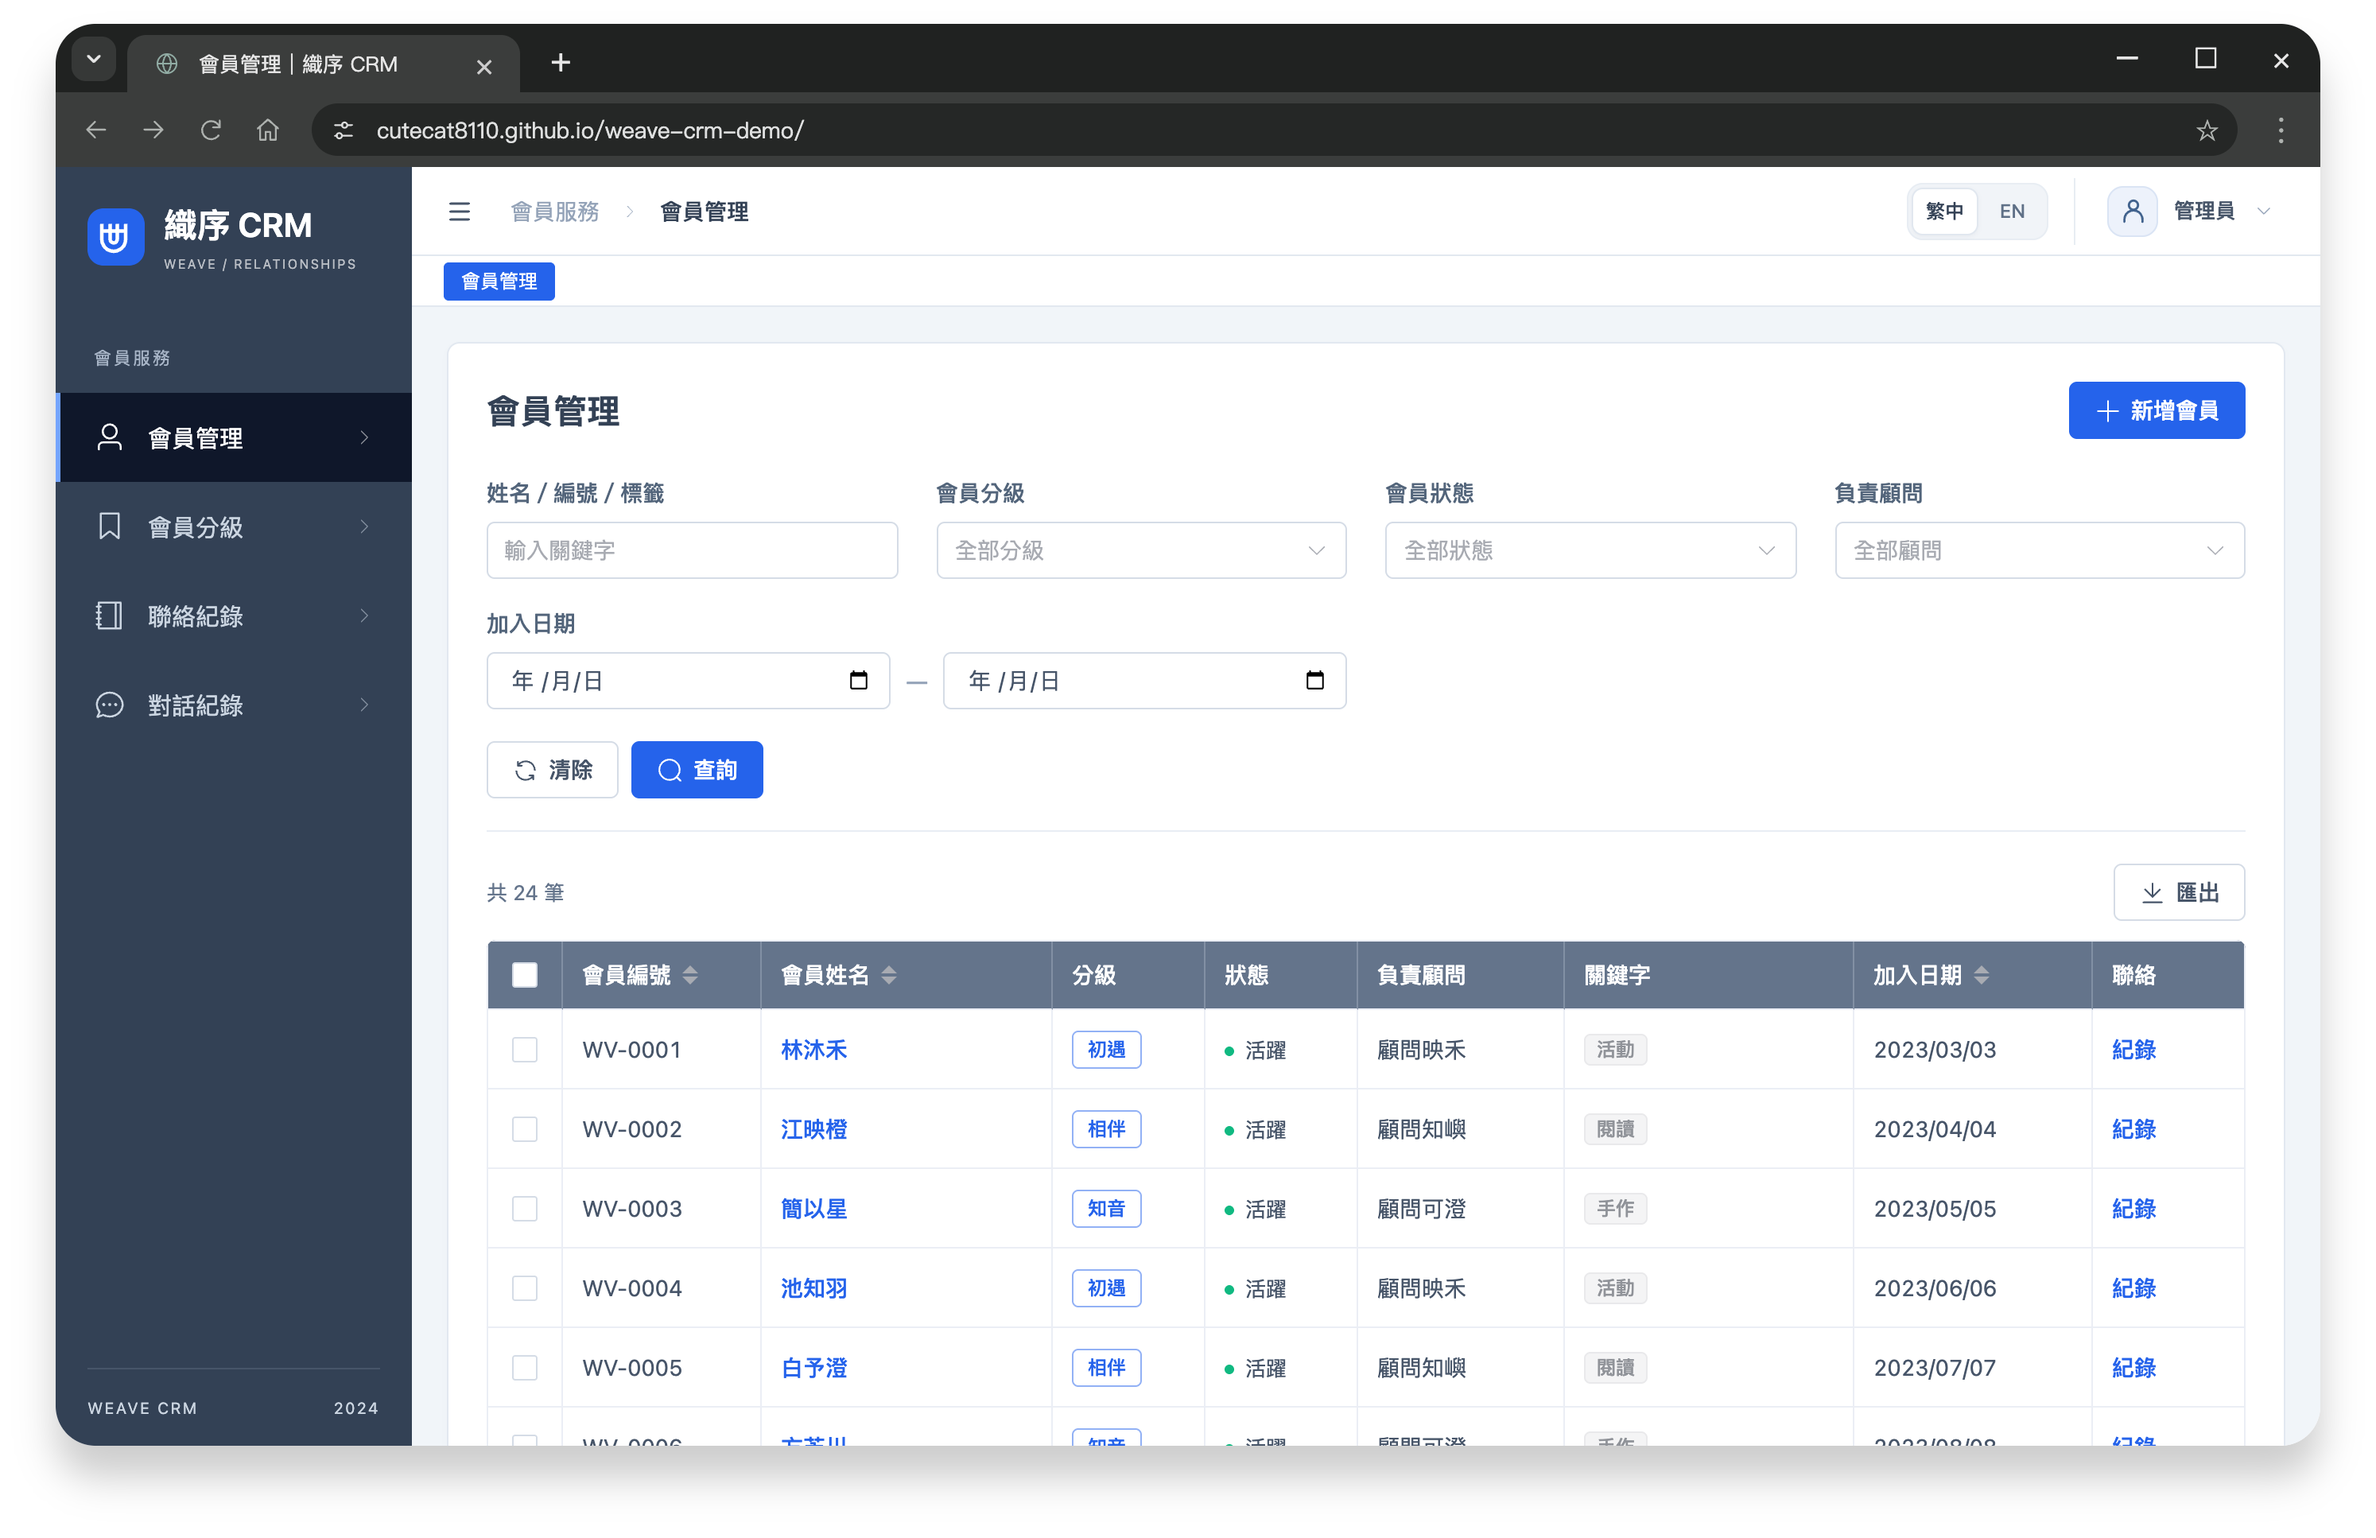
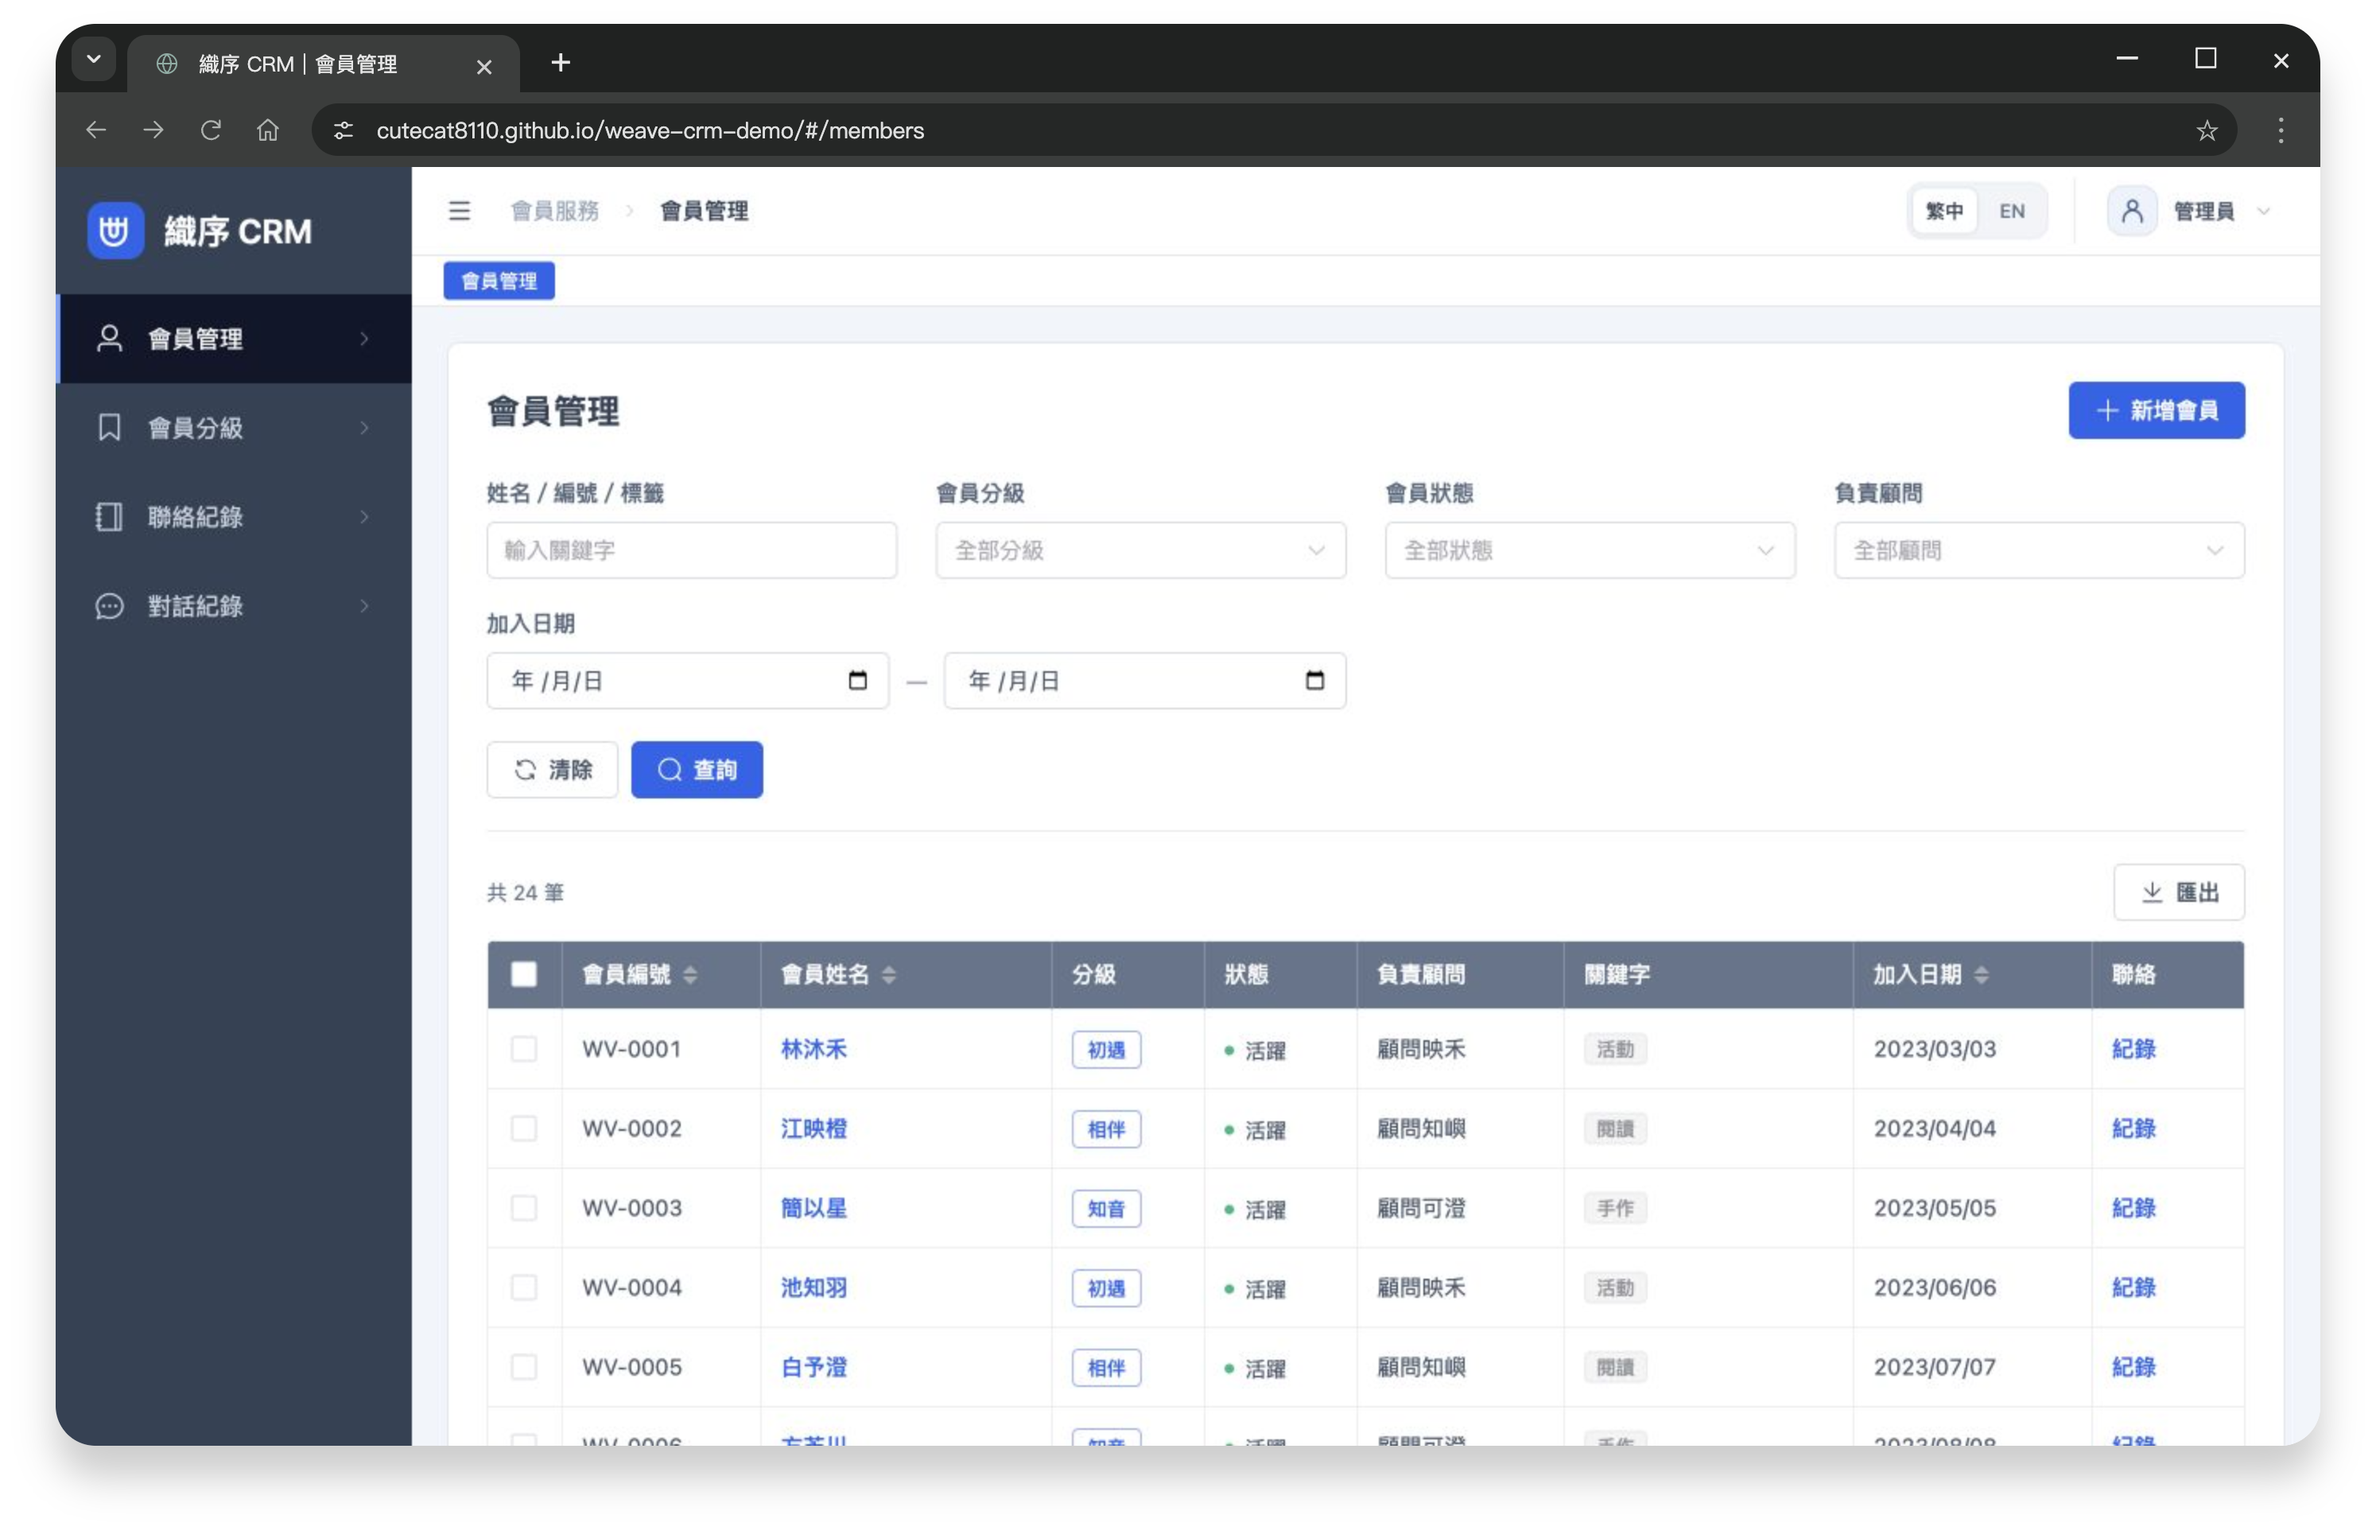
Refresh project overview and screenshots

diff --git a/README.md b/README.md
@@ -1,54 +1,44 @@
 # 織序 CRM｜會員管理與對話搜尋展示
 
-![Nuxt](https://img.shields.io/badge/Nuxt_4-00DC82?logo=nuxt&logoColor=fff) ![Vue](https://img.shields.io/badge/Vue_3-4FC08D?logo=vuedotjs&logoColor=fff) ![TypeScript](https://img.shields.io/badge/TypeScript-3178C6?logo=typescript&logoColor=fff) ![Element Plus](https://img.shields.io/badge/Element_Plus-409EFF) ![IndexedDB](https://img.shields.io/badge/IndexedDB-455A64)
+`Nuxt 4` · `Vue 3` · `TypeScript` · `Element Plus` · `IndexedDB`
 
-整合會員分級、聯絡歷程與多管道對話，支援關鍵字定位、圖片預覽及中英切換。
+整合會員分級、聯絡歷程與對話，支援搜尋定位、圖片預覽及中英切換。
 
-[**開啟 Demo →**](https://cutecat8110.github.io/weave-crm-demo/#/login)
+**[開啟 Demo](https://cutecat8110.github.io/weave-crm-demo/#/login)**
 
-![對話搜尋](images/conversations.png)
+![對話搜尋與圖片訊息](images/conversations.png)
 
-| 功能入口 | 可以體驗 |
+| 入口 | 代表操作 |
 | --- | --- |
-| [對話紀錄](https://cutecat8110.github.io/weave-crm-demo/#/conversations) | 訊息／客服／簡訊分類、命中高亮、逐筆定位、圖片放大 |
-| [會員管理](https://cutecat8110.github.io/weave-crm-demo/#/members) | 多條件查詢、編輯、福利資格與依角色區分資料範圍 |
-| [會員分級](https://cutecat8110.github.io/weave-crm-demo/#/tiers) | 福利設定、啟用／停用、會員關聯與刪除檢查 |
-| [聯絡紀錄](https://cutecat8110.github.io/weave-crm-demo/#/contacts) | 帶入會員、新增紀錄、安排追蹤及回看歷程 |
+| [會員管理](https://cutecat8110.github.io/weave-crm-demo/#/members) | 多條件查詢、編修、福利資格與顧問資料範圍 |
+| [會員分級](https://cutecat8110.github.io/weave-crm-demo/#/tiers) | 福利設定、啟停用及關聯檢查 |
+| [聯絡紀錄](https://cutecat8110.github.io/weave-crm-demo/#/contacts) | 新增紀錄、安排追蹤與回看歷程 |
+| [對話紀錄](https://cutecat8110.github.io/weave-crm-demo/#/conversations) | 分類、會員關聯、命中定位與圖片放大 |
 
-**建議體驗**
-
-1. 帶入管理員帳密，在對話紀錄開啟「林沐禾」，搜尋「活動報名」，切換命中並開啟圖片。
-2. 編輯「初遇」分級的福利，再查看會員的可用項目；暫停會員或停用分級，資格會同步改變。
-3. 切換右上角 **EN**，查看英文表單、驗證、日期及匯出。
-4. 登出後帶入顧問，對照負責會員的資料範圍。
-
-管理員可管理全部資料；顧問僅處理負責會員及相關紀錄；唯讀可查詢及匯出。
+**試用：** 帶入管理員帳密 → 開啟林沐禾對話 → 搜尋「活動報名」→ 切換命中與查看圖片。右上角可切換中英介面。
 
 <details>
 <summary>會員管理與聯絡歷程</summary>
 
-![會員管理](images/members.png)
-![聯絡歷程](images/contacts.png)
+![會員查詢與分級](images/members.png)
+![聯絡紀錄與追蹤狀態](images/contacts.png)
 
 </details>
 
 <details>
 <summary>實作重點</summary>
 
-- 共用列表、編輯器與語系字典，統一查詢、驗證、分頁與操作回饋。
-- 搜尋保留前後對話；圖片按需載入，預覽支援縮放、鍵盤及失敗重試。
-- 會員範圍統一套用於列表、關聯選取、歷程及 CSV；福利依會員與分級狀態判定。
-- IndexedDB 交易、版本檢查與資料升版，保留修改並避免跨分頁覆蓋；儲存失敗保留草稿。
+共用查詢、表單與語系字典；對話搜尋保留前後文。IndexedDB 交易與版本檢查避免跨分頁覆蓋，儲存失敗保留草稿。
 
 </details>
 
 <details>
-<summary>資料與使用範圍</summary>
+<summary>角色與使用說明</summary>
 
-使用虛構品牌、人物與對話，圖片為展示素材。角色與福利在瀏覽器內模擬，不提供伺服器身分驗證或訊息發送功能。
+管理員處理全部資料；顧問僅處理負責會員及相關紀錄；唯讀可查詢與匯出。
 
-修改保存在目前瀏覽器；登入、語言與查詢條件依分頁保存。中英切換不翻譯會員姓名、筆記或對話原文。此展示使用 Nuxt 4。
+品牌、人物、對話及圖片均供展示。角色與福利由瀏覽器模擬，沒有訊息發送或伺服器身分驗證。修改保存在目前瀏覽器，中英切換不翻譯資料內容。
 
-「重設資料」會恢復初始內容、清除本作品各分頁的修改與草稿，並登出所有分頁；其他作品不受影響。清除瀏覽器資料也會移除修改。
+「重設資料」清除本作品各分頁的修改與草稿，恢復初始內容並登出；其他作品不受影響。
 
 </details>
